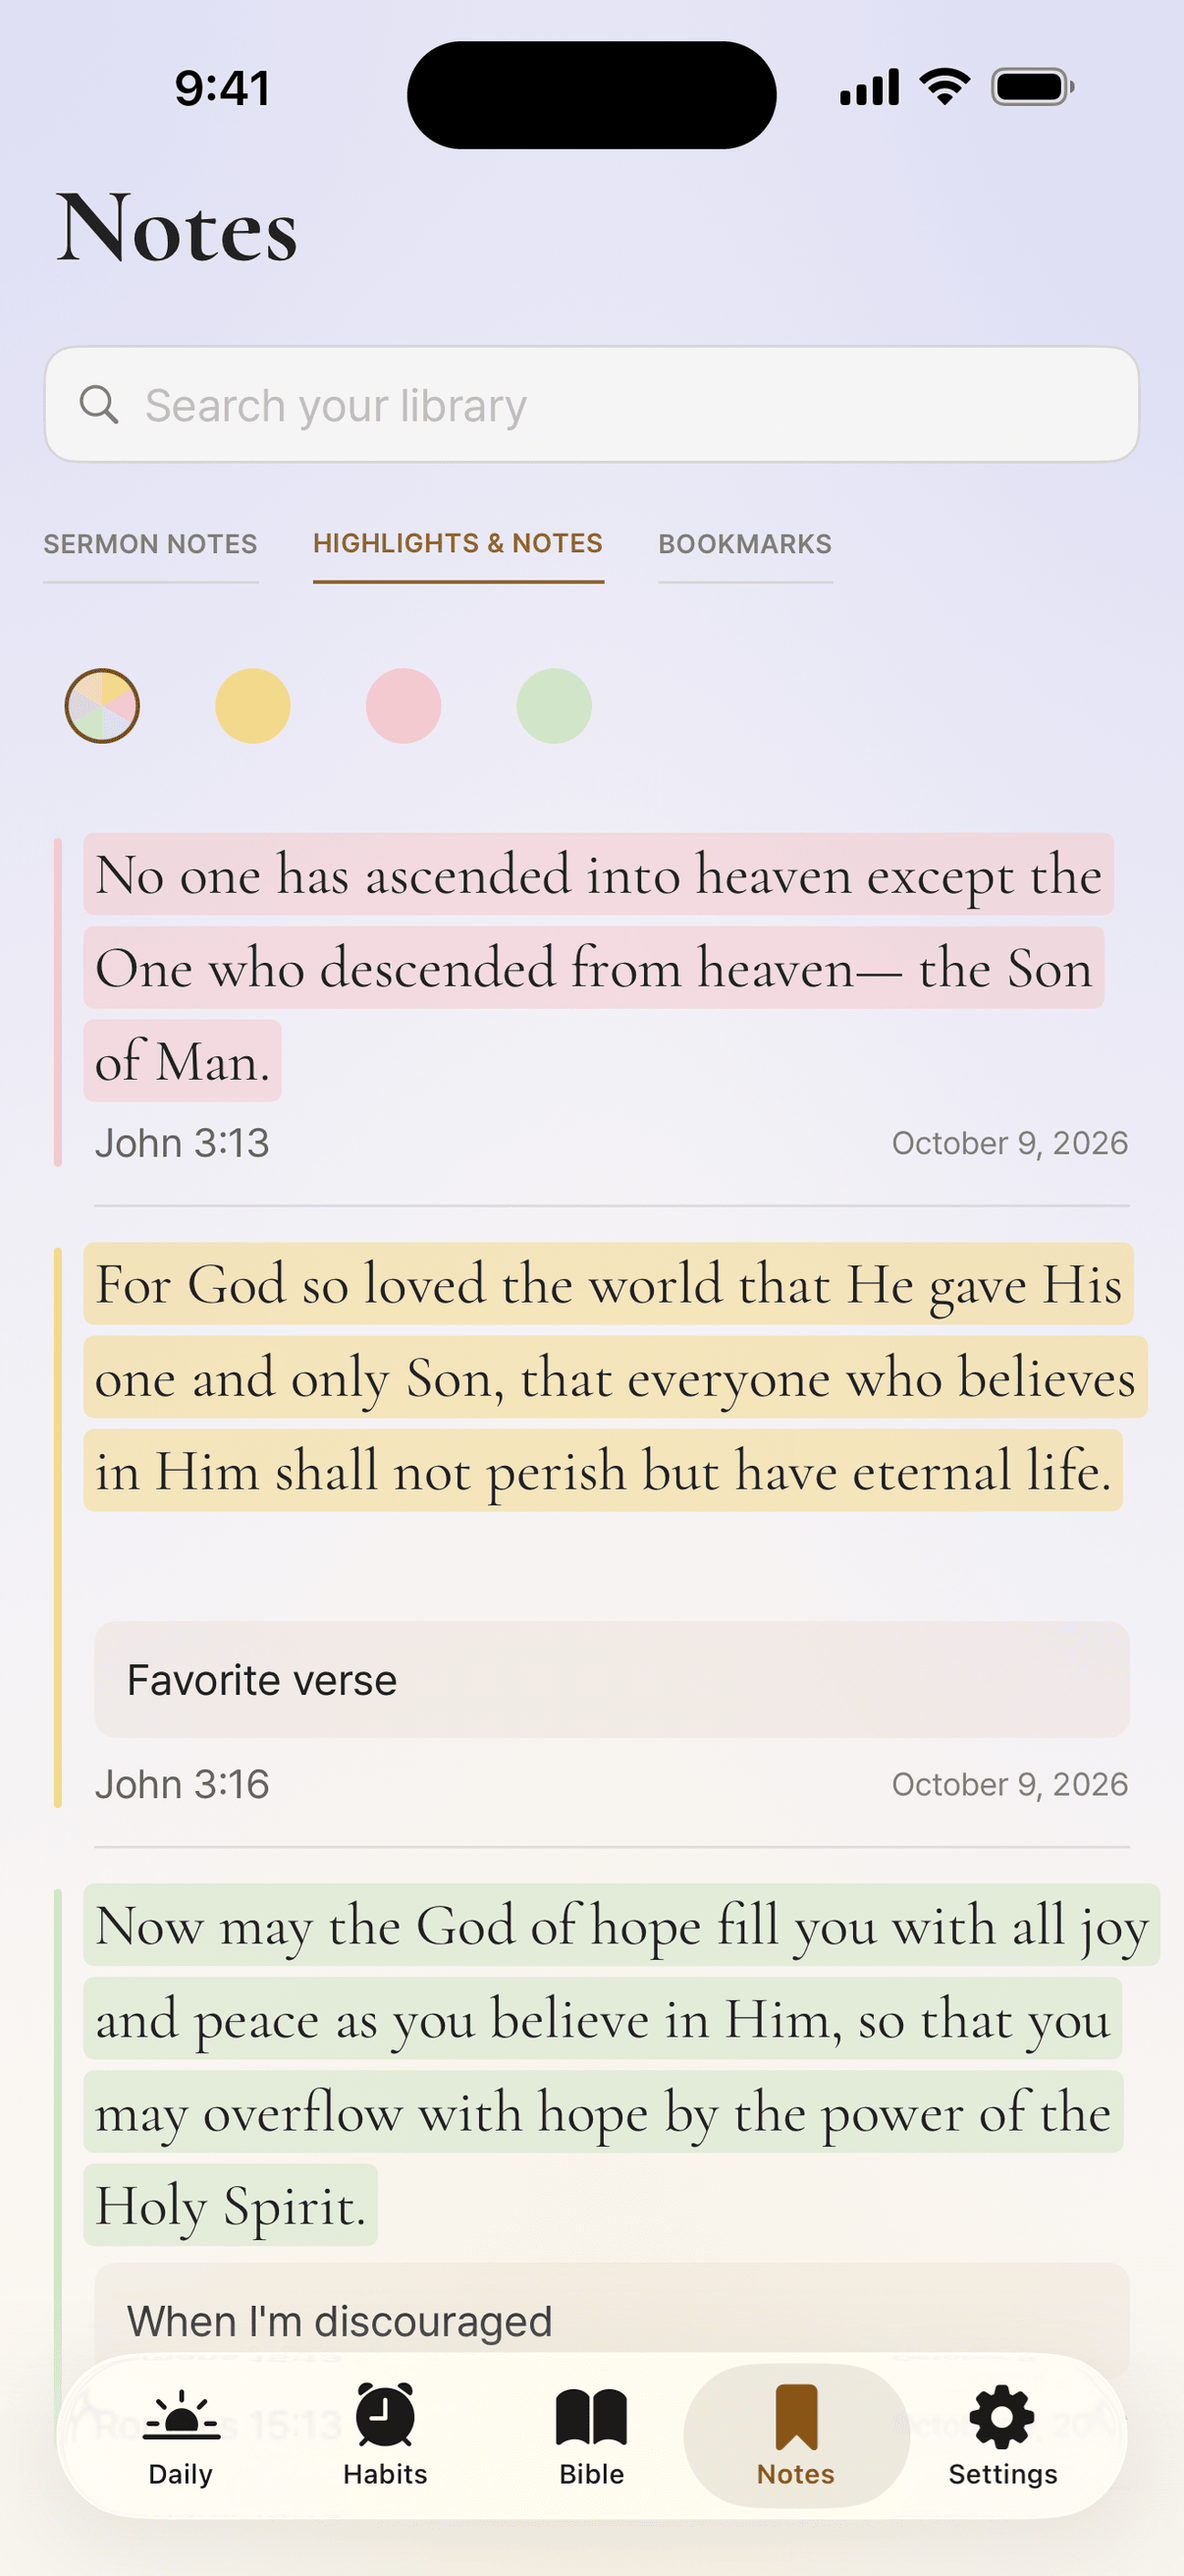
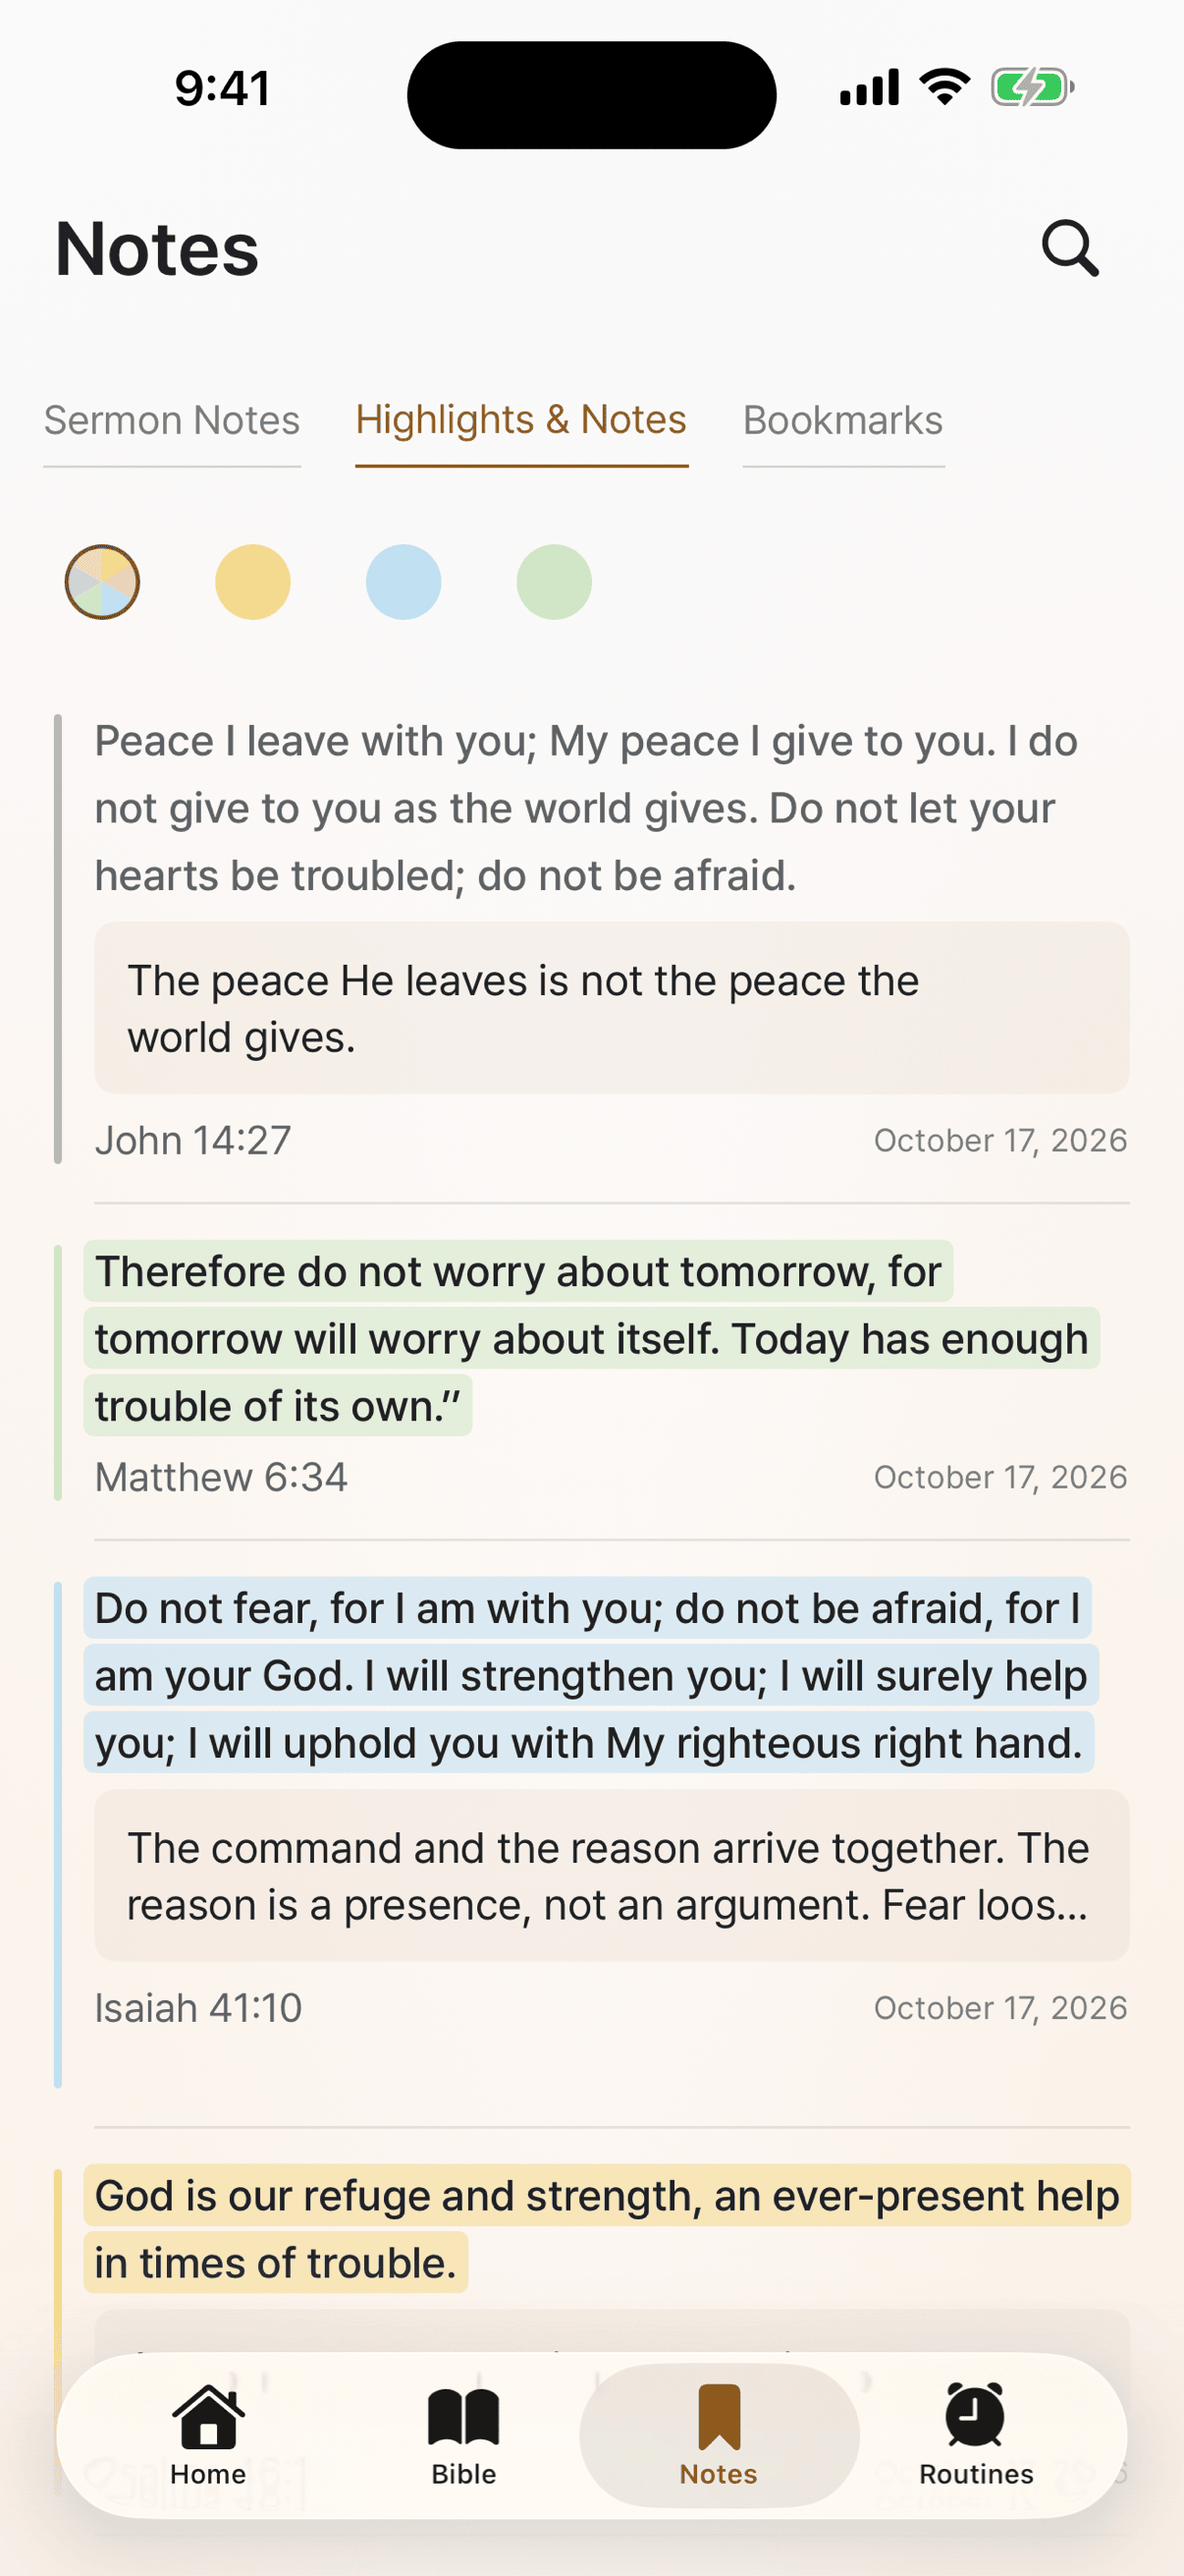
feat: refresh landing screenshots with the current app
Home, wake, pause-the-scroll, Bible and Notes come from the 1.0.17 light-theme capture set; Routines is a fresh 1.0.20 capture. Alt text follows what each screen now shows.

diff --git a/index.html b/index.html
@@ -272,9 +272,9 @@
       <div class="hero-art" aria-label="With Him app screens">
         <div class="hero-stage">
           <div class="hero-arch" aria-hidden="true"></div>
-          <div class="device hero-back"><img src="assets/screenshots/today.png" width="1206" height="2622" alt="Today screen with the day's verse from Isaiah 41 above the week's dates" fetchpriority="high"></div>
+          <div class="device hero-back"><img src="assets/screenshots/today.png" width="1206" height="2622" alt="Home screen with the verse of the day from Proverbs 3 over a photo of a cross" fetchpriority="high"></div>
           <span class="hero-ring" aria-hidden="true"></span><span class="hero-ring second" aria-hidden="true"></span><span class="hero-ring third" aria-hidden="true"></span>
-          <div class="device hero-front"><img src="assets/screenshots/wake-gate.png" width="1206" height="2622" alt="Morning verse screen with Isaiah 41:10 and the microphone that listens as you read" fetchpriority="high"></div>
+          <div class="device hero-front"><img src="assets/screenshots/wake-gate.png" width="1206" height="2622" alt="Morning verse screen with Proverbs 3:5–6 and the microphone that listens as you read" fetchpriority="high"></div>
           <span class="hero-chip"><i aria-hidden="true"><svg width="13" height="13" viewBox="0 0 24 24" fill="none" stroke="currentColor" stroke-width="2.4"><path d="M5 12.5l4.5 4.5L19 7.5"/></svg></i>Words light up as you read</span>
         </div>
       </div>
@@ -298,14 +298,14 @@
           <h3>Wake with a verse.</h3>
           <p>An alarm that hands you Scripture, not a snooze button. Read the verse out loud, watch each word light up, and the alarm goes quiet. No passage runs past sixty words.</p>
           <div class="moment-tags"><span>About 30 seconds</span><span>Or type it instead</span></div>
-          <div class="device moment-phone"><img src="assets/screenshots/habits.png" width="1206" height="2622" alt="Habits screen with the free verse alarm set for 6:30 AM and Pause the scroll below it" loading="lazy"></div>
+          <div class="device moment-phone"><img src="assets/screenshots/habits.png" width="1206" height="2622" alt="Routines screen with Wake With A Verse set for 6:30 AM on weekdays, above Manage Screen Time and Read-Through" loading="lazy"></div>
         </article>
         <article class="moment">
           <div class="moment-heading"><span class="moment-number">II</span>Mid-scroll</div>
           <h3>Pause the scroll.</h3>
           <p>Guard your time against social media with a verse. After about ten minutes in the apps you picked, one appears. Read it aloud and you’re right back in.</p>
           <div class="moment-tags"><span>You pick the apps</span><span>Off in three taps, anytime</span></div>
-          <div class="device moment-phone"><img src="assets/screenshots/focus-gate.png" width="1206" height="2622" alt="Pause the scroll screen with a verse and microphone" loading="lazy"></div>
+          <div class="device moment-phone"><img src="assets/screenshots/focus-gate.png" width="1206" height="2622" alt="A moment with Him screen with a verse and the microphone to read it aloud" loading="lazy"></div>
         </article>
       </div>
       <div class="why-aloud"><strong>Why out loud?</strong><p>You can swipe a notification away half asleep. You can’t say a sentence out loud without being present for it.</p></div>
@@ -335,8 +335,8 @@
   <section class="bible-section" id="reader" aria-labelledby="bible-title">
     <div class="container feature-layout">
       <div class="bible-gallery">
-        <img class="shot" src="assets/screenshots/bible.png" width="1206" height="2622" alt="Bible reader open to John chapter 3 with a highlighted passage" loading="lazy">
-        <img class="shot" src="assets/screenshots/notes.png" width="1206" height="2622" alt="Notes screen showing saved highlights with their own notes" loading="lazy">
+        <img class="shot" src="assets/screenshots/bible.png" width="1206" height="2622" alt="Bible reader open to John chapter 14 with the highlight color picker open" loading="lazy">
+        <img class="shot" src="assets/screenshots/notes.png" width="1206" height="2622" alt="Notes screen showing highlights with their own notes" loading="lazy">
       </div>
       <div>
         <h2 id="bible-title">The Bible is the heart of it.</h2>
